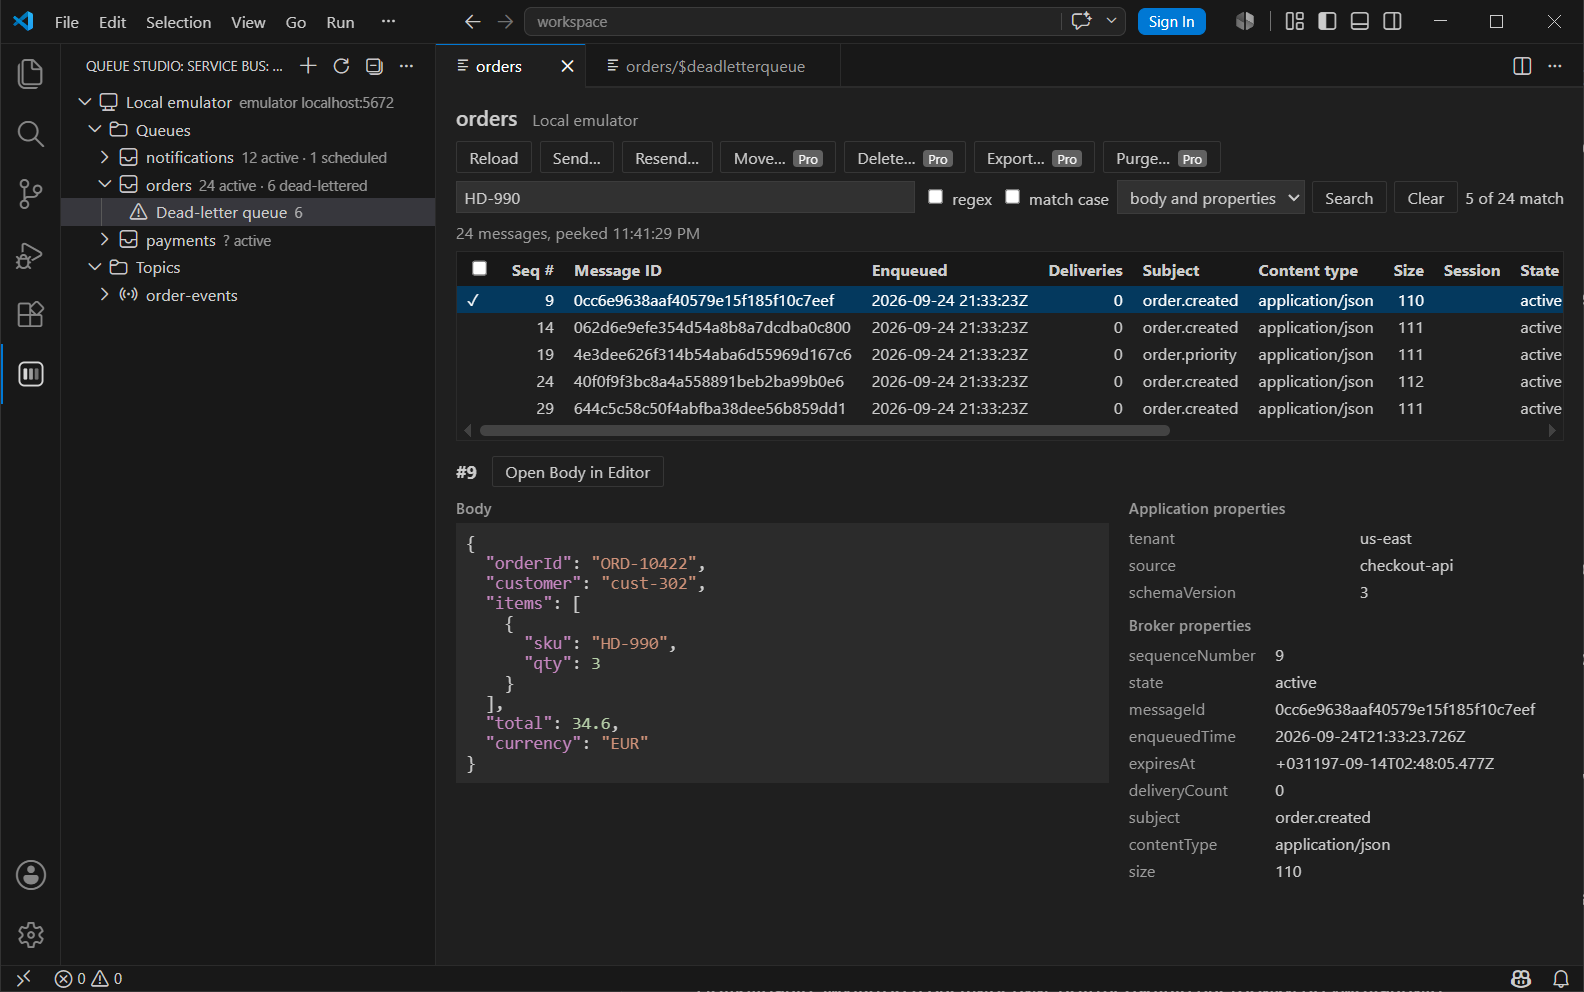
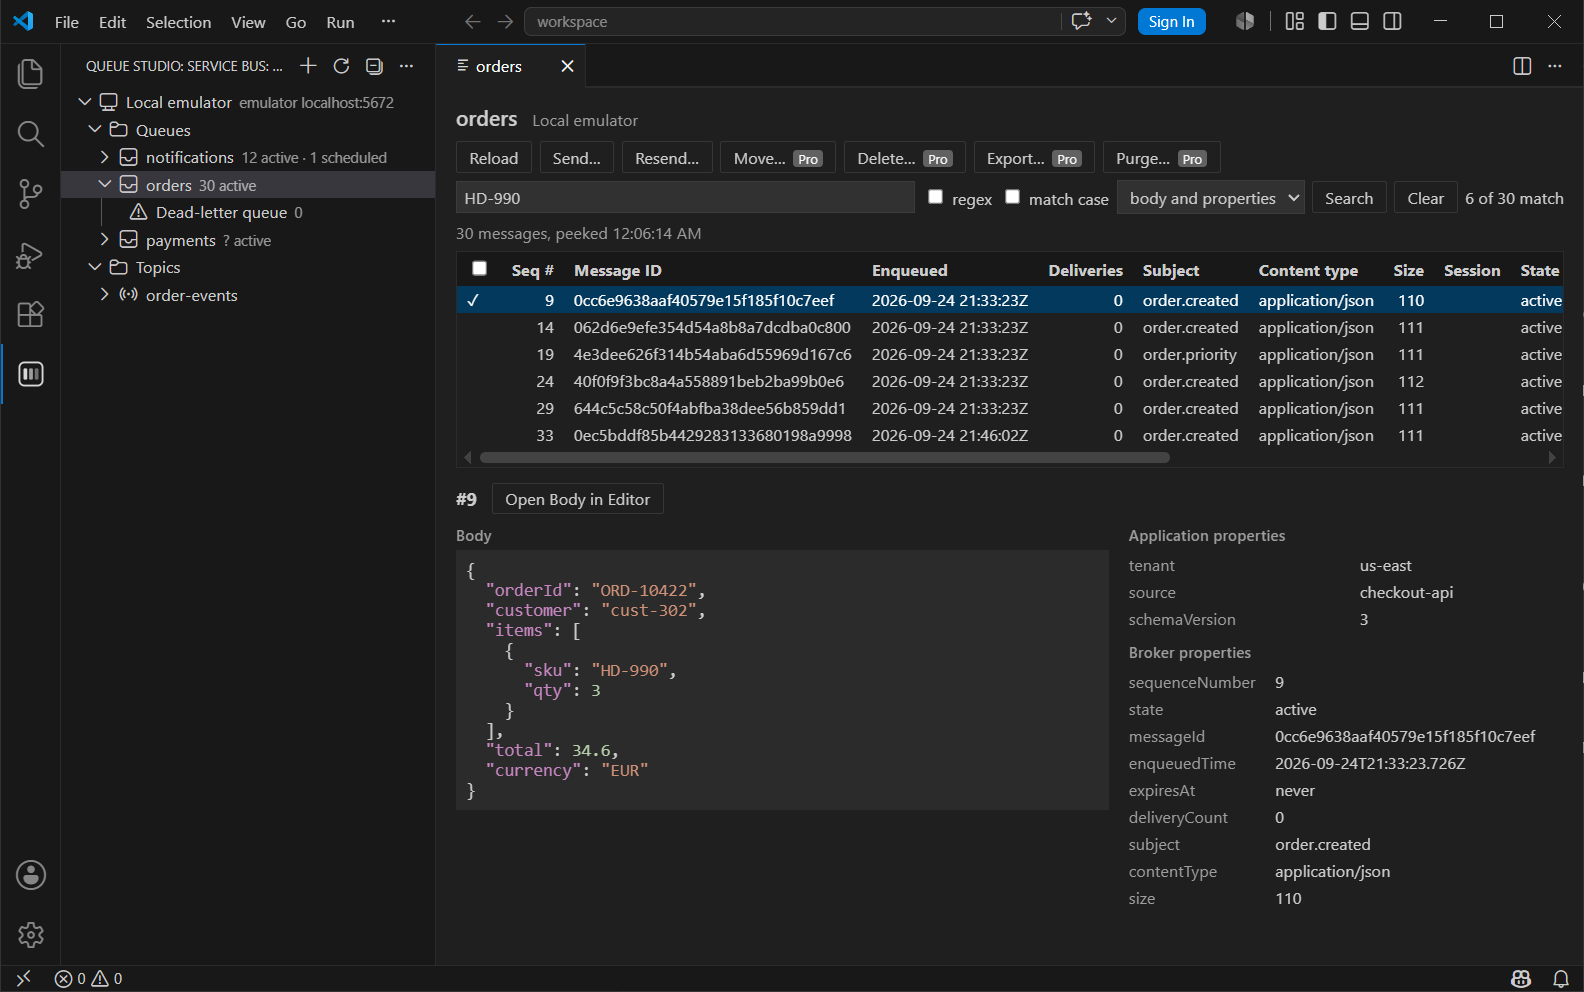
Service Bus: search screenshot after the expiry fix

diff --git a/docs/servicebus/index.html b/docs/servicebus/index.html
@@ -78,8 +78,8 @@
         </figure>
         <figure class="shot">
           <img src="images/03-search.png" width="1584" height="992" loading="lazy" decoding="async"
-            alt="A search for HD-990 in the bodies and properties of the orders queue, showing 5 of 24 messages">
-          <figcaption>Search in bodies and properties: 5 of 24 messages match.</figcaption>
+            alt="A search for HD-990 in the bodies and properties of the orders queue, showing 6 of 30 messages">
+          <figcaption>Search in bodies and properties: 6 of 30 messages match.</figcaption>
         </figure>
         <figure class="shot">
           <img src="images/04-move-dead-letters.png" width="1584" height="992" loading="lazy" decoding="async"

diff --git a/servicebus/README.md b/servicebus/README.md
@@ -94,7 +94,7 @@ message.
 - **Search** the peeked messages by substring or regular expression, in bodies, application properties
   (`name=value`) or both.
 
-  ![A search for HD-990 in the bodies and properties of the orders queue, showing 5 of 24 messages](../docs/servicebus/images/03-search.png)
+  ![A search for HD-990 in the bodies and properties of the orders queue, showing 6 of 30 messages](../docs/servicebus/images/03-search.png)
 
 - **Move a whole dead-letter queue** back to its queue, or to its topic for a subscription, or to any queue or
   topic. Each batch is sent first and removed from the dead-letter queue only after the send succeeded, so a
